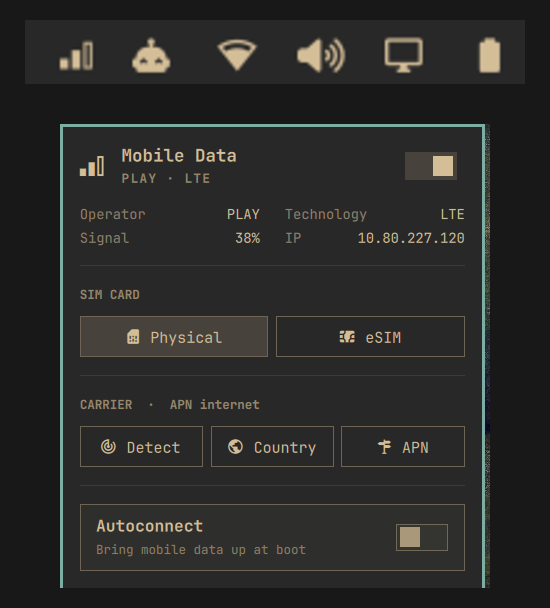
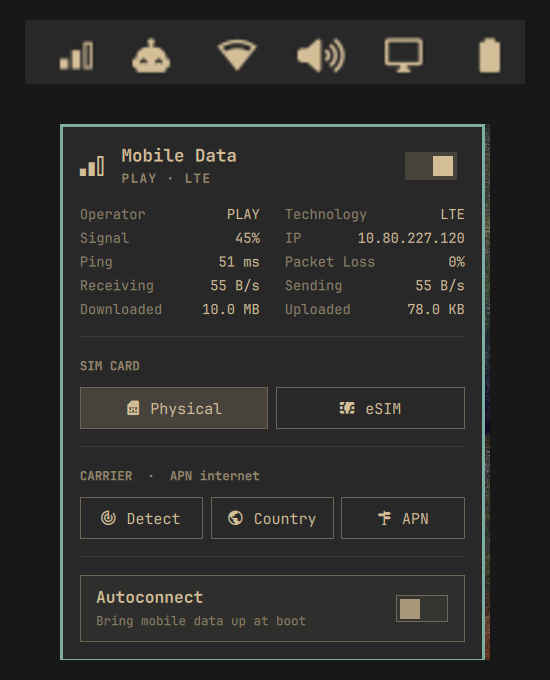
Add live traffic stats to the panel, like the Wi-Fi widget
Ping, packet loss, current throughput, and session totals, in the same
grid the network panel draws. `omarchy-wwan panel --verbose` adds byte
counters and a ping bound to the modem interface (-I) — unbound it would
measure the default route, which is usually Wi-Fi. The open panel polls
verbose every 1.5s and computes rates as deltas; the bar's background
poll stays on the cheap form, so the 1s ping timeout is never paid while
the panel is closed.

diff --git a/shell/WwanPanel.qml b/shell/WwanPanel.qml
@@ -28,6 +28,24 @@ Panel {
   property bool desired: false
   readonly property bool switchChecked: busy ? desired : connected
 
+  // Throughput and latency, mirroring the first-party network panel: rates
+  // are deltas between successive --verbose samples, and ping keeps a rolling
+  // window in which a timed-out probe counts as a lost packet.
+  property real prevRxBytes: 0
+  property real prevTxBytes: 0
+  property real prevSampleTime: 0
+  property string prevIface: ""
+  property real downloadRate: 0
+  property real uploadRate: 0
+  property var pingSamples: []
+  property real pingLatency: -1
+  property int packetLoss: 0
+  readonly property int pingHistoryWindow: 24
+  readonly property int pingAverageWindow: 5
+  readonly property bool hasPingSamples: pingSamples.length > 0
+  readonly property bool hasTransferStats: info.rx_bytes !== undefined
+  readonly property color urgent: bar && bar.urgent !== undefined ? bar.urgent : "#cc6666"
+
   readonly property string statusText: {
     switch (wwanState) {
     case "connected": return (info.operator || "Connected") + (info.tech ? " · " + info.tech : "")
@@ -43,6 +61,10 @@ Panel {
     if (!statusProc.running) statusProc.running = true
   }
 
+  function refreshDetails() {
+    if (!detailsProc.running) detailsProc.running = true
+  }
+
   function updateInfo(raw) {
     var next = {}
     var lines = String(raw || "").split("\n")
@@ -53,7 +75,83 @@ Panel {
     // Keep the last known state across a transient empty read, so the widget
     // never blinks out while the CLI is briefly unavailable.
     if (Object.keys(next).length === 0) return
+    updateStats(next)
     info = next
+  }
+
+  function updateStats(next) {
+    var iface = next.iface || ""
+    var now = Date.now() / 1000
+
+    if (next.rx_bytes === undefined || iface !== prevIface || prevSampleTime === 0) {
+      // First sample after open, or the modem moved to another interface —
+      // a delta against the old counters would manufacture a spike.
+      downloadRate = 0
+      uploadRate = 0
+    } else {
+      var dt = now - prevSampleTime
+      if (dt > 0) {
+        downloadRate = Math.max(0, (parseFloat(next.rx_bytes) - prevRxBytes) / dt)
+        uploadRate = Math.max(0, (parseFloat(next.tx_bytes) - prevTxBytes) / dt)
+      }
+    }
+    prevIface = iface
+    prevRxBytes = parseFloat(next.rx_bytes || "0")
+    prevTxBytes = parseFloat(next.tx_bytes || "0")
+    prevSampleTime = next.rx_bytes === undefined ? 0 : now
+
+    if (next.ping_ms === undefined) return
+    var v = parseFloat(next.ping_ms)
+    var samples = pingSamples.slice()
+    samples.push(isFinite(v) && v >= 0 ? v : null)
+    while (samples.length > pingHistoryWindow) samples.shift()
+    pingSamples = samples
+
+    var total = 0, count = 0
+    for (var i = Math.max(0, samples.length - pingAverageWindow); i < samples.length; i++) {
+      if (typeof samples[i] === "number") { total += samples[i]; count++ }
+    }
+    pingLatency = count > 0 ? total / count : -1
+
+    var lost = 0
+    for (var j = 0; j < samples.length; j++) if (samples[j] === null) lost++
+    packetLoss = Math.round((lost / samples.length) * 100)
+  }
+
+  function resetStats() {
+    prevSampleTime = 0
+    prevIface = ""
+    downloadRate = 0
+    uploadRate = 0
+    pingSamples = []
+    pingLatency = -1
+    packetLoss = 0
+  }
+
+  function formatBytes(bytes) {
+    var n = Number(bytes)
+    if (!isFinite(n) || n < 0) n = 0
+    if (n < 1024) return Math.round(n) + " B"
+    if (n < 1024 * 1024) return (n / 1024).toFixed(1) + " KB"
+    if (n < 1024 * 1024 * 1024) return (n / (1024 * 1024)).toFixed(1) + " MB"
+    return (n / (1024 * 1024 * 1024)).toFixed(2) + " GB"
+  }
+
+  function formatRate(bytesPerSec) {
+    return formatBytes(bytesPerSec) + "/s"
+  }
+
+  function formatPing(ms) {
+    if (!hasPingSamples) return "--"
+    var v = parseFloat(ms)
+    if (!isFinite(v) || v < 0) return "Timeout"
+    return v.toFixed(v > 0 && v < 10 ? 1 : 0) + " ms"
+  }
+
+  function formatLoss(percent) {
+    if (!hasPingSamples) return "--"
+    var v = parseInt(percent, 10)
+    return (!v || v < 0 ? 0 : v) + "%"
   }
 
   function runAction(cmd) {
@@ -75,7 +173,7 @@ Panel {
     if (root.bar) root.bar.run(cmd)
   }
 
-  onOpenedChanged: if (opened) refresh()
+  onOpenedChanged: if (!opened) resetStats()
 
   visible: hwPresent
   implicitWidth: hwPresent ? button.implicitWidth : 0
@@ -87,21 +185,36 @@ Panel {
     stdout: StdioCollector { waitForEnd: true; onStreamFinished: root.updateInfo(text) }
   }
 
+  // The verbose feed adds byte counters and an interface-bound ping; the ping
+  // can burn its full 1s timeout, so only the open panel pays for it.
   Process {
-    id: actionProc
-    onExited: root.refresh()
+    id: detailsProc
+    command: ["omarchy-wwan", "panel", "--verbose"]
+    stdout: StdioCollector { waitForEnd: true; onStreamFinished: root.updateInfo(text) }
   }
 
+  Process {
+    id: actionProc
+    onExited: root.opened ? root.refreshDetails() : root.refresh()
+  }
+
+  // Background poll for the bar icon; the open panel has its own cadence.
   Timer {
     interval: Math.max(2, root.setting("interval", 10)) * 1000
-    running: true
+    running: !root.opened
     repeat: true
     triggeredOnStart: true
     onTriggered: root.refresh()
   }
 
-  // Tighter cadence while the panel is open, so signal and IP track live.
-  Timer { interval: 3000; running: root.opened; repeat: true; onTriggered: root.refresh() }
+  // Same rhythm as the Wi-Fi panel's stats poll.
+  Timer {
+    interval: 1500
+    running: root.opened
+    repeat: true
+    triggeredOnStart: true
+    onTriggered: root.refreshDetails()
+  }
 
   BarIconButton {
     id: button
@@ -172,6 +285,8 @@ Panel {
         }
 
         // ---------- Connection stats ----------
+        // Same grid as the Wi-Fi panel: label/value pairs in two columns,
+        // ping rows turning urgent as soon as a probe is lost.
         Row {
           visible: root.connected
           width: parent.width
@@ -182,6 +297,13 @@ Panel {
             spacing: Style.spacing.labelGap
             InfoPair { label: "Operator"; value: root.info.operator || "—" }
             InfoPair { label: "Signal"; value: (root.info.signal || "0") + "%" }
+            InfoPair {
+              label: "Ping"
+              value: root.formatPing(root.pingLatency)
+              valueColor: root.packetLoss > 0 ? root.urgent : root.barForeground
+            }
+            InfoPair { label: "Receiving"; value: root.hasTransferStats ? root.formatRate(root.downloadRate) : "--" }
+            InfoPair { label: "Downloaded"; value: root.hasTransferStats ? root.formatBytes(parseFloat(root.info.rx_bytes || "0")) : "--" }
           }
 
           Column {
@@ -189,6 +311,13 @@ Panel {
             spacing: Style.spacing.labelGap
             InfoPair { label: "Technology"; value: root.info.tech || "—" }
             InfoPair { label: "IP"; value: (root.info.ip || "—").split("/")[0] }
+            InfoPair {
+              label: "Packet Loss"
+              value: root.formatLoss(root.packetLoss)
+              valueColor: root.packetLoss > 0 ? root.urgent : root.barForeground
+            }
+            InfoPair { label: "Sending"; value: root.hasTransferStats ? root.formatRate(root.uploadRate) : "--" }
+            InfoPair { label: "Uploaded"; value: root.hasTransferStats ? root.formatBytes(parseFloat(root.info.tx_bytes || "0")) : "--" }
           }
         }
 
@@ -323,6 +452,7 @@ Panel {
   component InfoPair: Row {
     property string label: ""
     property string value: ""
+    property color valueColor: root.barForeground
 
     width: parent.width
     spacing: Style.space(8)
@@ -342,7 +472,7 @@ Panel {
 
     Text {
       text: parent.value
-      color: root.barForeground
+      color: parent.valueColor
       font.family: root.fontFamily
       font.pixelSize: Style.font.bodySmall
     }

diff --git a/README.md b/README.md
@@ -108,8 +108,9 @@ Poland, for instance, requires `internet`/`internet`.
 ## Usage
 
 The bar icon opens an anchored control panel, just like the built-in Wi-Fi and battery
-widgets: a connect switch, connection stats, SIM slot picker, carrier setup, and
-autoconnect. Right-click toggles mobile data directly; middle-click refreshes.
+widgets: a connect switch, live connection stats (ping and packet loss measured over the
+modem link itself, current throughput, session totals), SIM slot picker, carrier setup,
+and autoconnect. Right-click toggles mobile data directly; middle-click refreshes.
 
 The same controls are also in the Omarchy menu under **Setup → Mobile**
 (or `omarchy menu summon mobile`) for keyboard-driven use.
